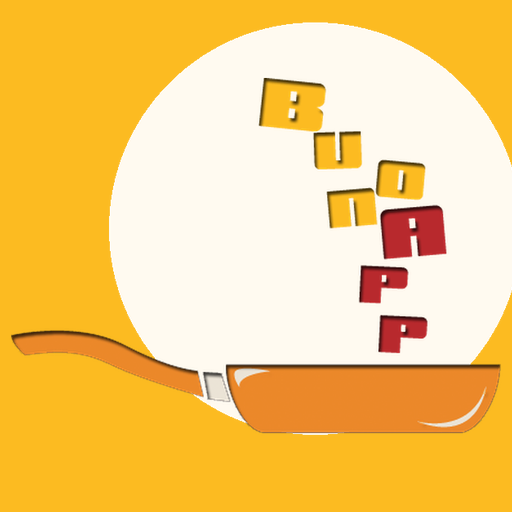
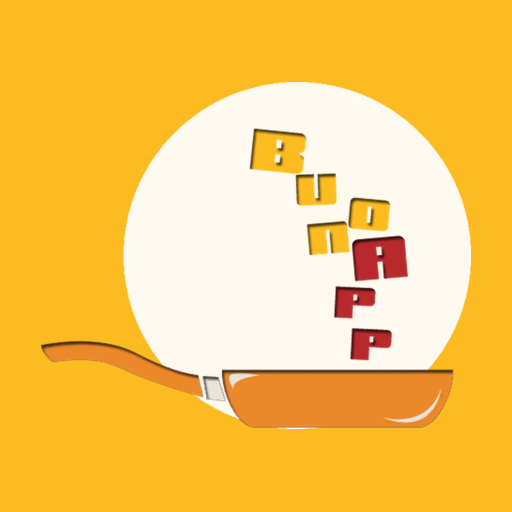
Icona dello store: cerchio bianco intero, con margine sui bordi
Claude-Session: https://claude.ai/code/session_01GEB7gGYA6y3XevWERqHc3E

Changed region(s): [[0.0, 0.0312, 1.0, 0.875]]

diff --git a/play-store/grafica/genera.js b/play-store/grafica/genera.js
@@ -217,8 +217,11 @@ async function rendi(browser, html, file, w, h) {
   const server = await avviaServer();
   const browser = await chromium.launch();
   try {
-    // Icona: quella dell'app, quadrata e a piena superficie (Google aggiunge angoli e ombra).
-    fs.copyFileSync(path.join(RADICE, 'img/icona-512.png'), path.join(USCITA, 'icona-512.png'));
+    // Icona: padella con il piatto intero su fondo giallo, con margine perché il cerchio non sia tagliato.
+    // Quadrata e a piena superficie: Google aggiunge da sé angoli arrotondati e ombra.
+    execFileSync('convert', ['-size', '512x512', 'xc:#fcbb21',
+      '(', path.join(RADICE, 'img/padella-piatto.png'), '-trim', '+repage', '-resize', '430x430', ')',
+      '-gravity', 'center', '-composite', 'PNG32:' + path.join(USCITA, 'icona-512.png')]);
 
     for (const lingua of LINGUE) {
       const dir = path.join(USCITA, lingua);

diff --git a/SVILUPPO.md b/SVILUPPO.md
@@ -37,6 +37,7 @@ scuola secondaria di primo grado, per tutti i menu disponibili. L'utente può sa
 | 27/10/2026 | Informativa privacy aggiornata: tolto «non utilizza strumenti di statistica», aggiunta la sezione «Statistiche di visita». Service worker `buonapp-v13`. |
 | 15/11/2026 | **Cinque lingue**: italiano (predefinita), inglese, francese, spagnolo, arabo (da destra a sinistra). Testi in `js/i18n.js`; lingua scelta dal menu nella testata, da `?lang=xx` o dal telefono, salvata sul dispositivo (`buonapp.lingua`). Fasce e diete tradotte per id; **i nomi dei piatti restano in italiano**, con una nota nel piede. Service worker `buonapp-v15`. |
 | 15/11/2026 | Informativa privacy unica in cinque lingue, generata da `docs/privacy/genera.py` in `privacy.html` e in `play-store/privacy/buonapp/index.html` (da caricare in `/privacy/buonapp/`, l'indirizzo dato a Google Play). Aggiunti: «non è un'app ufficiale della Città di Torino», minori, base giuridica delle statistiche. |
+| 15/11/2026 | Icona dello store (`play-store/grafica/icona-512.png`) rifatta da `img/padella-piatto.png` con margine: nella prima versione il cerchio bianco era tagliato. |
 | 15/11/2026 | Google Play: procedura della skill `googleplay-store`. Gratuita, senza pubblicità, **senza acquisti in app**; categoria Cibo e bevande; pubblico 18+ (genitori). Tutto in `play-store/`. |
 
 ## Fonte dei dati
